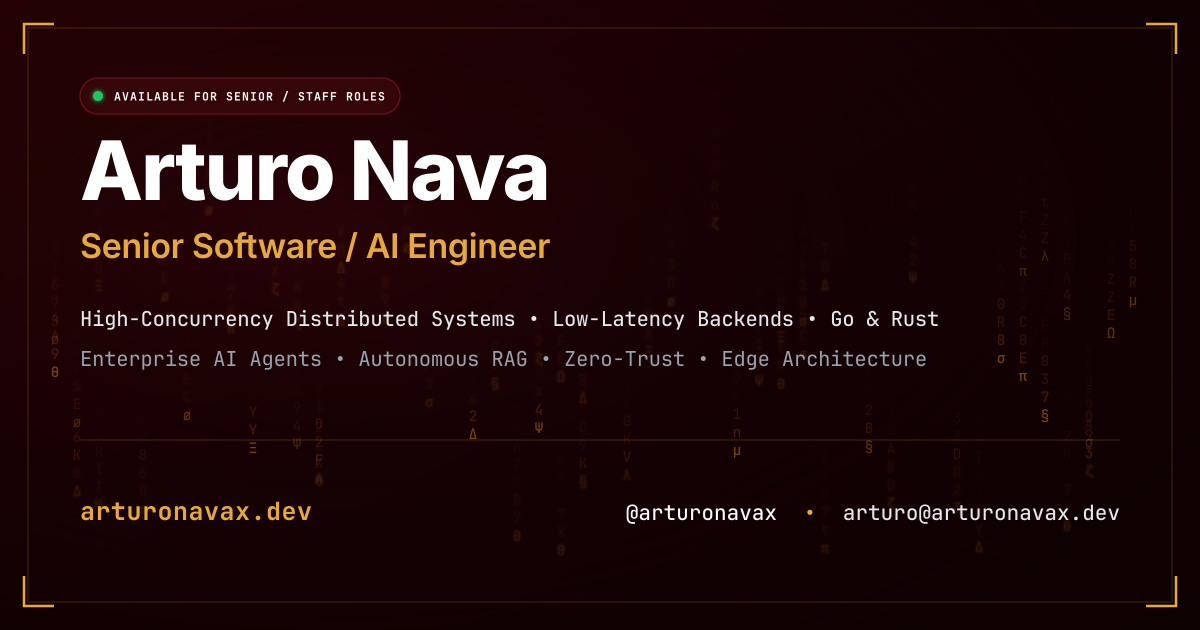
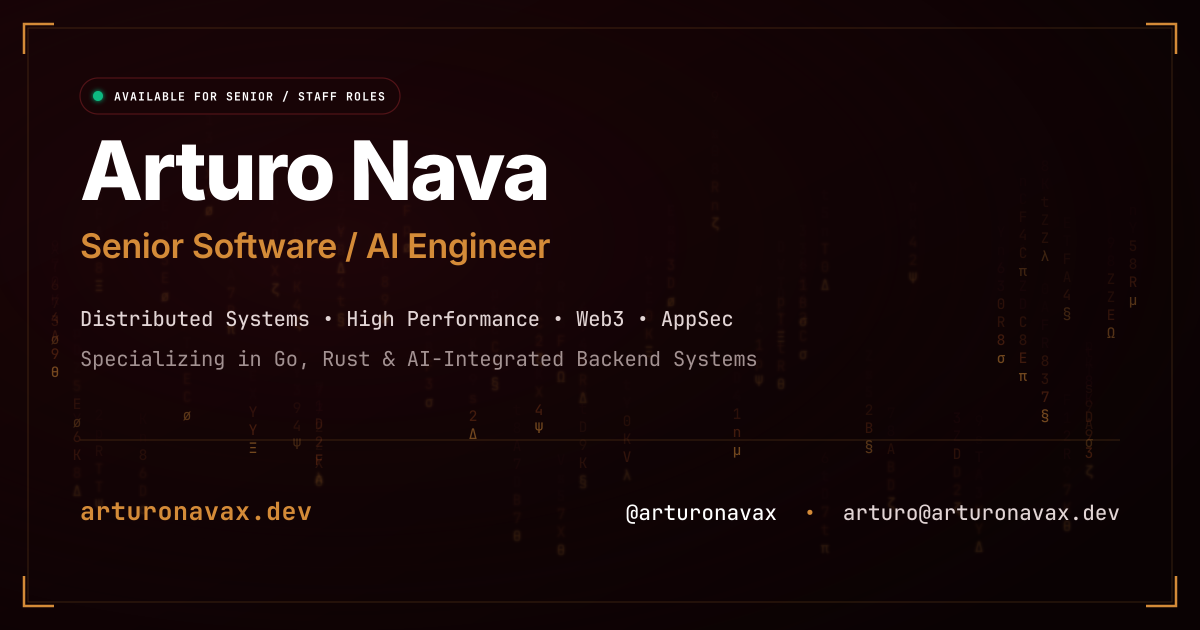
improve

diff --git a/src/pages/og/[...slug].png.ts b/src/pages/og/[...slug].png.ts
@@ -180,7 +180,7 @@ export const GET: APIRoute = async ({ props }) => {
     .map(
       (tag, i) => `
       <g transform="translate(${80 + i * 180}, 534)">
-        <rect width="165" height="36" rx="4" fill="#260205" stroke="#7a1c16" stroke-width="1.2" />
+        <rect width="165" height="36" rx="4" fill="#180406" stroke="#521317" stroke-width="1.2" />
         <text x="82.5" y="23" font-family="monospace, 'Geist Mono', sans-serif" font-size="13" font-weight="600" fill="#d48b38" text-anchor="middle">
           #${escapeXml(tag)}
         </text>
@@ -192,14 +192,14 @@ export const GET: APIRoute = async ({ props }) => {
   <svg width="${width}" height="${height}" viewBox="0 0 ${width} ${height}" xmlns="http://www.w3.org/2000/svg">
     <defs>
       <linearGradient id="bg" x1="0%" y1="0%" x2="100%" y2="100%">
-        <stop offset="0%" stop-color="#260205" />
-        <stop offset="45%" stop-color="#160103" />
-        <stop offset="100%" stop-color="#0E0102" />
+        <stop offset="0%" stop-color="#180406" />
+        <stop offset="45%" stop-color="#120305" />
+        <stop offset="100%" stop-color="#0A0203" />
       </linearGradient>
       <radialGradient id="vignette" cx="20%" cy="30%" r="75%">
-        <stop offset="0%" stop-color="#4d0e12" stop-opacity="0.35" />
-        <stop offset="60%" stop-color="#160103" stop-opacity="0.10" />
-        <stop offset="100%" stop-color="#0E0102" stop-opacity="0.85" />
+        <stop offset="0%" stop-color="#3A0D10" stop-opacity="0.35" />
+        <stop offset="60%" stop-color="#120305" stop-opacity="0.10" />
+        <stop offset="100%" stop-color="#0A0203" stop-opacity="0.85" />
       </radialGradient>
       <filter id="glow" x="-20%" y="-20%" width="140%" height="140%">
         <feGaussianBlur in="SourceGraphic" stdDeviation="3" />
@@ -223,7 +223,7 @@ export const GET: APIRoute = async ({ props }) => {
 
     <!-- Top Metadata Bar -->
     <g transform="translate(80, 78)">
-      <rect width="260" height="34" rx="4" fill="#3a0307" stroke="#d48b38" stroke-width="1" stroke-opacity="0.6" />
+      <rect width="260" height="34" rx="4" fill="#180406" stroke="#d48b38" stroke-width="1" stroke-opacity="0.6" />
       <circle cx="16" cy="17" r="4.5" fill="#10b981" filter="url(#glow)" />
       <text x="32" y="22" font-family="monospace, 'Geist Mono', sans-serif" font-size="11.5" font-weight="700" fill="#d48b38" letter-spacing="1">
         ${escapeXml(section)}
@@ -231,7 +231,7 @@ export const GET: APIRoute = async ({ props }) => {
     </g>
 
     <!-- Domain Watermark -->
-    <text x="1120" y="100" font-family="monospace, 'Geist Mono', sans-serif" font-size="16" font-weight="600" fill="#a89b9b" text-anchor="end" opacity="0.75" letter-spacing="0.5">
+    <text x="1120" y="100" font-family="monospace, 'Geist Mono', sans-serif" font-size="16" font-weight="600" fill="#a39292" text-anchor="end" opacity="0.75" letter-spacing="0.5">
       arturonavax.dev
     </text>
 
@@ -241,7 +241,7 @@ export const GET: APIRoute = async ({ props }) => {
     </text>
 
     <!-- Description -->
-    <text x="80" y="${220 + safeTitleLines.length * 68 + 15}" font-family="-apple-system, BlinkMacSystemFont, 'Segoe UI', Roboto, 'Geist', sans-serif" font-size="21" font-weight="400" fill="#e0d6d6" letter-spacing="-0.2">
+    <text x="80" y="${220 + safeTitleLines.length * 68 + 15}" font-family="-apple-system, BlinkMacSystemFont, 'Segoe UI', Roboto, 'Geist', sans-serif" font-size="21" font-weight="400" fill="#e2d5d5" letter-spacing="-0.2">
       ${descSvgTspans}
     </text>
 

diff --git a/src/styles/global.css b/src/styles/global.css
@@ -370,6 +370,7 @@ html[data-theme="light"] body {
   height: 14px;
   pointer-events: none;
   z-index: 5;
+  box-sizing: border-box;
   transition: border-color 200ms ease;
 }
 
@@ -387,6 +388,21 @@ html[data-theme="light"] body {
   border-bottom: 2px solid var(--color-accent-gold);
   border-right: 2px solid var(--color-accent-gold);
   border-bottom-right-radius: 4px;
+}
+
+/* Prevención robusta de rotura de esquinas en contenedores con overflow u offsets fraccionarios */
+.geometric-box.overflow-hidden::before,
+.geometric-box[class*="overflow-hidden"]::before {
+  top: 0;
+  left: 0;
+  border-top-left-radius: 3px;
+}
+
+.geometric-box.overflow-hidden::after,
+.geometric-box[class*="overflow-hidden"]::after {
+  bottom: 0;
+  right: 0;
+  border-bottom-right-radius: 3px;
 }
 
 /* Modificador para contenedores que no deben llevar esquinas geométricas */

diff --git a/odd/tasks.md b/odd/tasks.md
@@ -1,15 +1,12 @@
 # Tareas del Proyecto (ODD)
 
-[x] Reemplaza la imagen arturonava.png por yo.jpg ya que tiene mejor calidad siendo la imagen original, puedes renombrarla arturonava.jpg y ponerla en el mismo sitio e ajustar todo para que se genere el asset AVIF y WEBP como ya lo hace arturonava.png.
+Skills taste-skills SKILL.md (SOLO MODIFICAR LO INDICADO Y NADA MAS): Mejorar el responsive general del banner principal:
+[x] En ciertos tamaños de pantalla pequeños los contenedores con esquinas alternadas marcadas se les rompe uno de los angulos de las esquinas, refinalo haciendolo mas robusto.
 
-[x] (Skill copywriting SKILL.md) Utiliza todo mi contexto profesional de la carpeta .cv (analizando todos los archivos y subcarpetas) para reajustar todo el contenido de el website, experiencias profesionales, proyectos, servicios, descripciones, todo, tambien ten en cuenta lo siguiente:
+[x] Despues de 530px de pantalla el contenedor de la foto deberia adaptarse al ancho.
 
-    - Debes redactar y expresar todo como un Staff Senior Web Copywriter con +15 años de experiencia especializado en portafolios atractivos para tech recluters, pensando desde el lado de usuarios, clientes tech y sobre todo tech cluters.
-    - Tienes SUPER PROHIBIDO mentir o exagerar demasiado la interpetacion de mis acciones en una compañia, ya que no quiero que sea moral o eticamente incorrecto, pero si puedes mantenerte una linea entre lo real y mayormente atractivo.
-    - No tengo Shortcuts, Online Judges, Channels para el Buy Me a Coffee, Blogs ni Case Studies aun, por lo cual deshabilita/comenta eso (sin eliminar la funcionalidad, solo dejandola temporalmente desactivada para futuras integraciones)
-    - Regresa el indicador horario de que estoy en Bogota y alineado con USA (eliminando lo de LAT porque se ve muy tecnico) y los indicadores de punto verde (activo).
-    - No hagas tanto enfasis en OLTP, OLAP o Snowflake en la descripcion principal (ya que realmente no son mi especialidad pero si son palabras keywords muy convenientes si puedes usarlas en puntos estrategicos)
-    - No alteres el archivo markdown de CV, eso lo hare yo despues.
-    - Al finalizar borras la carpeta .cv ya que no formara parte de este repositorio.
+[x] Despues de 640px de pantalla mi nombre, titulo, descripcion y botones deberia alinearse al medio hasta alcanzar los 1024px donde queda el diseño final.
 
-[x] (Skill seo-audit SKILL.md) Haz una revision total del SEO, sobre todo temas como el multi lenguaje, que no se enbasuren los resultados de busqueda de forma que se degrade la exposicion y SEO, que cada pagina indique perfectamente todos sus atributos de SEO y lenguaje.
+[x] Quiero que el titulo "Senior Software...." este debajo del nombre.
+
+[x] Ajusta los colores del script de generacion de assets og-default para que coincida mejor los colores. (No cambies la estructura y solo ajusta los textos que sean necesarios y convenientes). (Tambien en el generador dinamico de og-default de cada ruta en caso de haberlo)
